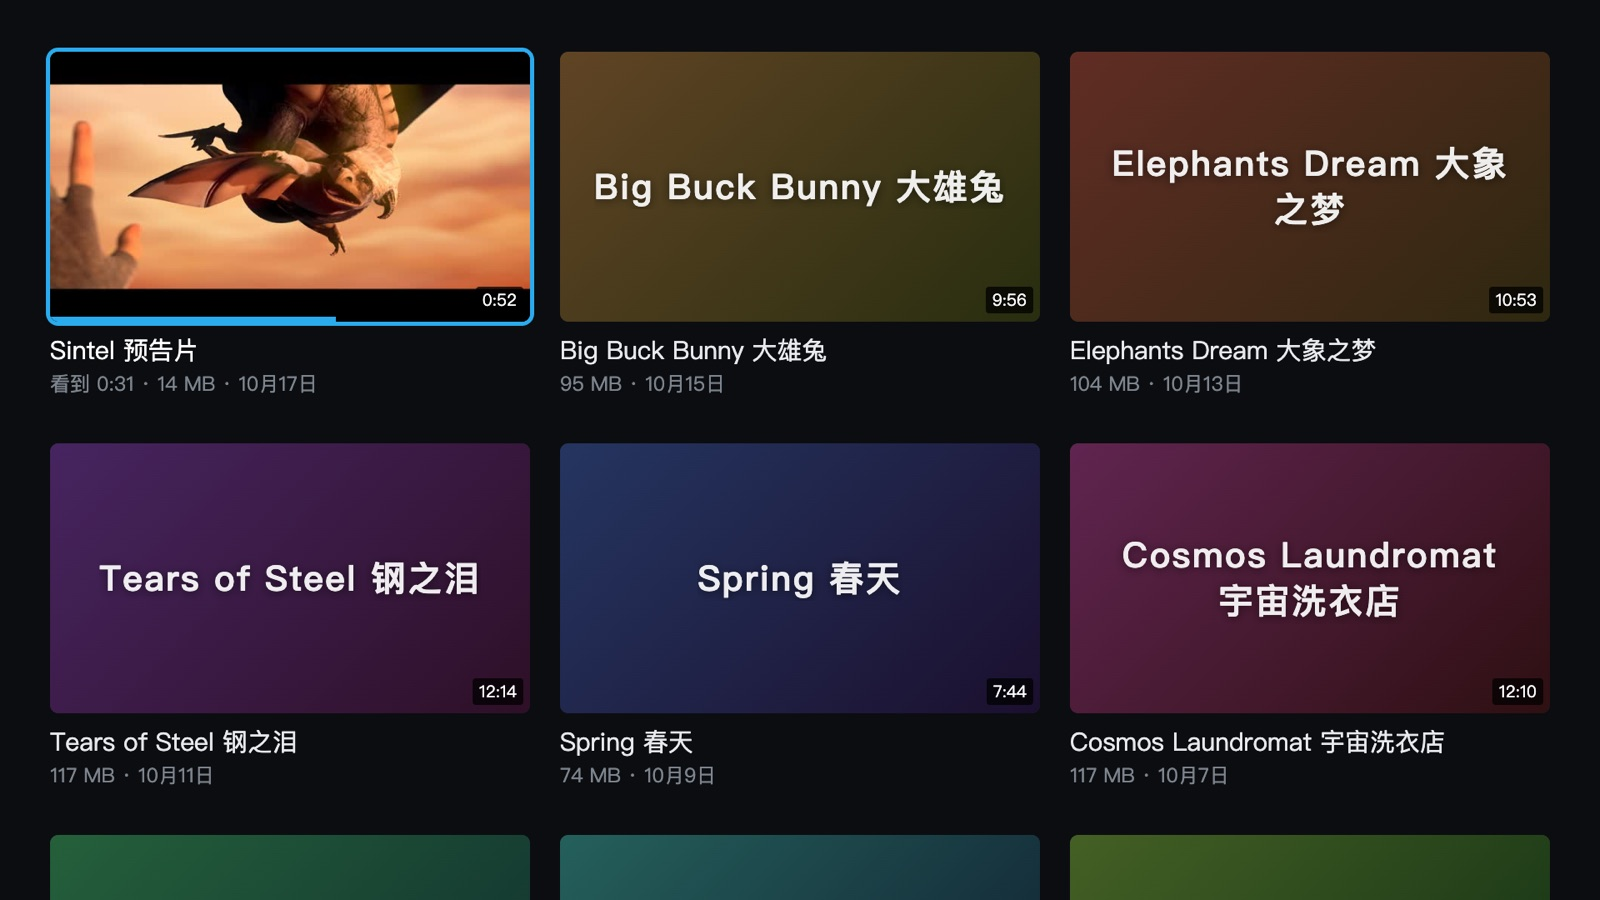
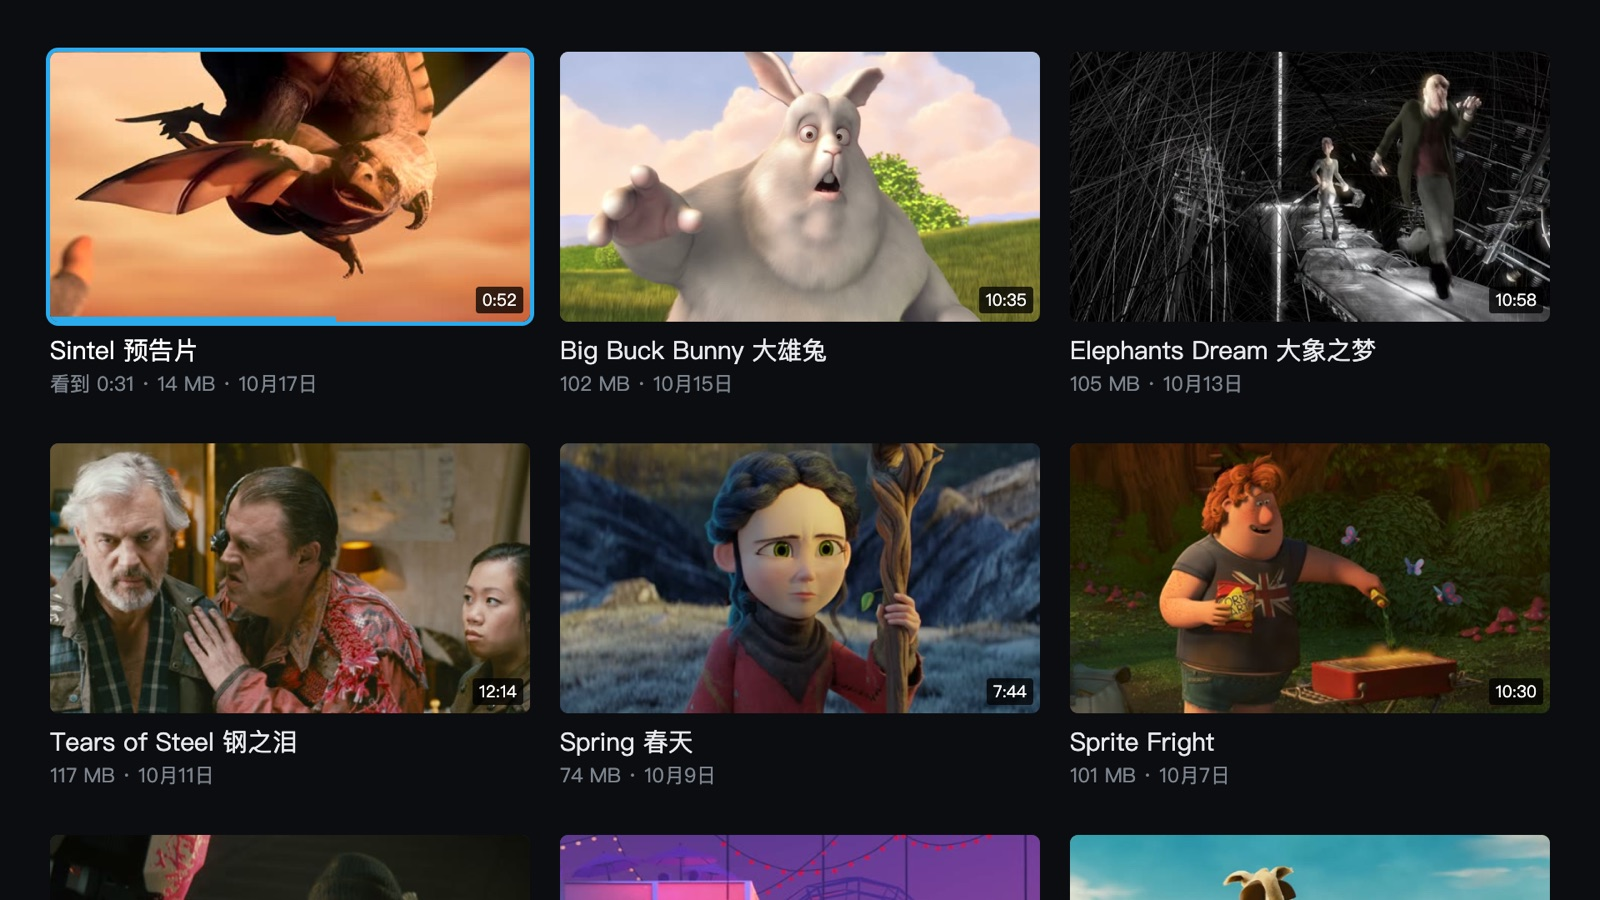
README 截图：每部片子都有封面
只有 Sintel 有封面、其余是片名卡片，看着像封面没加载出来。其余几部换成
Wikimedia Commons 上 Blender 开源电影正片里的一帧（Agent 327 和 Cosmos
Laundromat 换成 Sprite Fright 和 Charge：前者 Commons 上没有正片，后者是
CC BY-SA），Sintel 那帧裁掉上下黑边。署名列全九部，各片的作者、协议和
出处写在 test/readme-shots.mjs。

Claude-Session: https://claude.ai/code/session_015FoHaevexSNbvm18RBq1HR

diff --git a/README.md b/README.md
@@ -10,15 +10,17 @@
 
 ![视频网格](docs/screenshots/01-home.jpg)
 
-*一个来源里的视频，三列；看过的带进度条。没有可用封面的显示片名卡片。*
+*一个来源里的视频，三列；看过的带进度条。*
 
 | | |
 |---|---|
 | ![来源栏](docs/screenshots/02-sources.jpg) | ![播放](docs/screenshots/03-player.jpg) |
 | 按左键滑出来源栏：有视频的群和频道 | 边下边播，从上次看到的地方接着放 |
 
-> 截图里的群名、视频都是编的（`test/readme-shots.mjs` 换掉了 Telegram 层）。播放画面是 Blender 基金会的开源电影
-> [Sintel](https://durian.blender.org/) 预告片，© Blender Foundation，[CC BY 3.0](https://creativecommons.org/licenses/by/3.0/)。
+> 截图里的群名、日期和文件大小是编的（`test/readme-shots.mjs` 换掉了 Telegram 层）。视频都是 Blender 的开源电影：
+> [Sintel](https://durian.blender.org/)（播放的是它的预告片）、Big Buck Bunny、Elephants Dream、Tears of Steel、Spring、
+> Sprite Fright、Charge、Coffee Run、Caminandes 3，© Blender Foundation / Blender Studio，CC BY（2.5–4.0），
+> 封面是片中的画面。各片的作者、出处和协议版本见 `test/readme-shots.mjs`。
 
 ## 能做的
 
@@ -103,8 +105,10 @@ MIT。`app/js/vendor/hls.min.js`（hls.js）是 Apache-2.0；打包时进来的 
 A player for the videos in your Telegram groups and channels, on Samsung Tizen TVs. Sign in with a QR code; your
 groups and channels with videos are on the left, a grid of their videos on the right, and the remote plays them.
 It streams while downloading, so a multi-gigabyte film starts in seconds and seeks freely. The TV talks to
-Telegram directly — no server; the session stays on the set. (The screenshots use made-up groups and titles; the
-playing video is the trailer of Blender Foundation's open movie [Sintel](https://durian.blender.org/), CC BY 3.0.)
+Telegram directly — no server; the session stays on the set. (The screenshots use made-up group names; the
+videos are Blender open movies — [Sintel](https://durian.blender.org/) (its trailer is the one playing), Big Buck Bunny,
+Elephants Dream, Tears of Steel, Spring, Sprite Fright, Charge, Coffee Run and Caminandes 3 — © Blender Foundation /
+Blender Studio, CC BY 2.5–4.0; per-film credits are in `test/readme-shots.mjs`.)
 
 - QR sign-in with [mtcute](https://github.com/mtcute/mtcute), running in a worker.
 - A hand-written MP4 parser feeding MSE: a 2.6 GB film starts in 5.8 s, seeks to unbuffered positions in 0.6 s.
